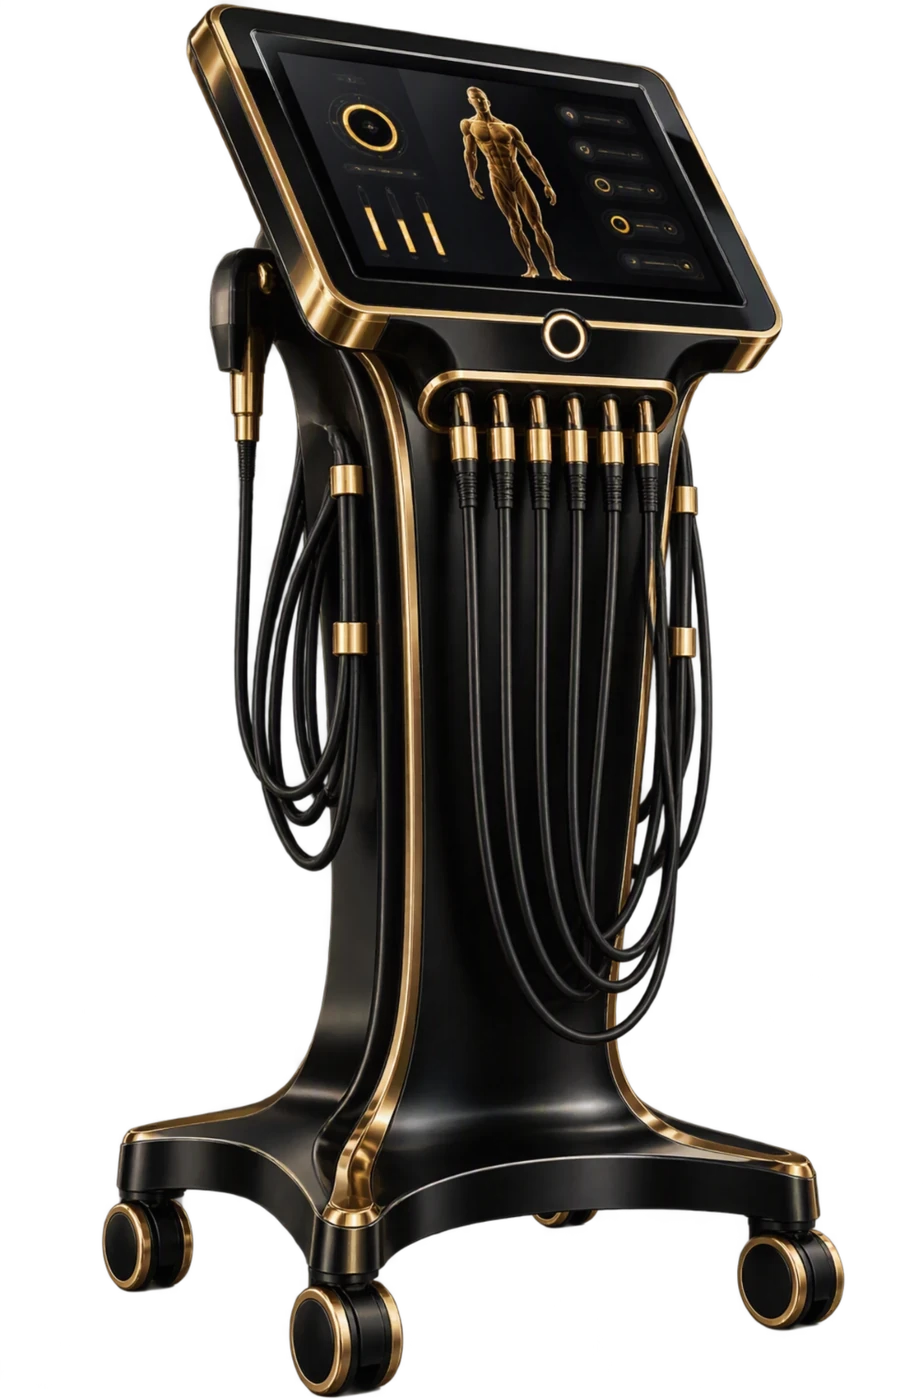
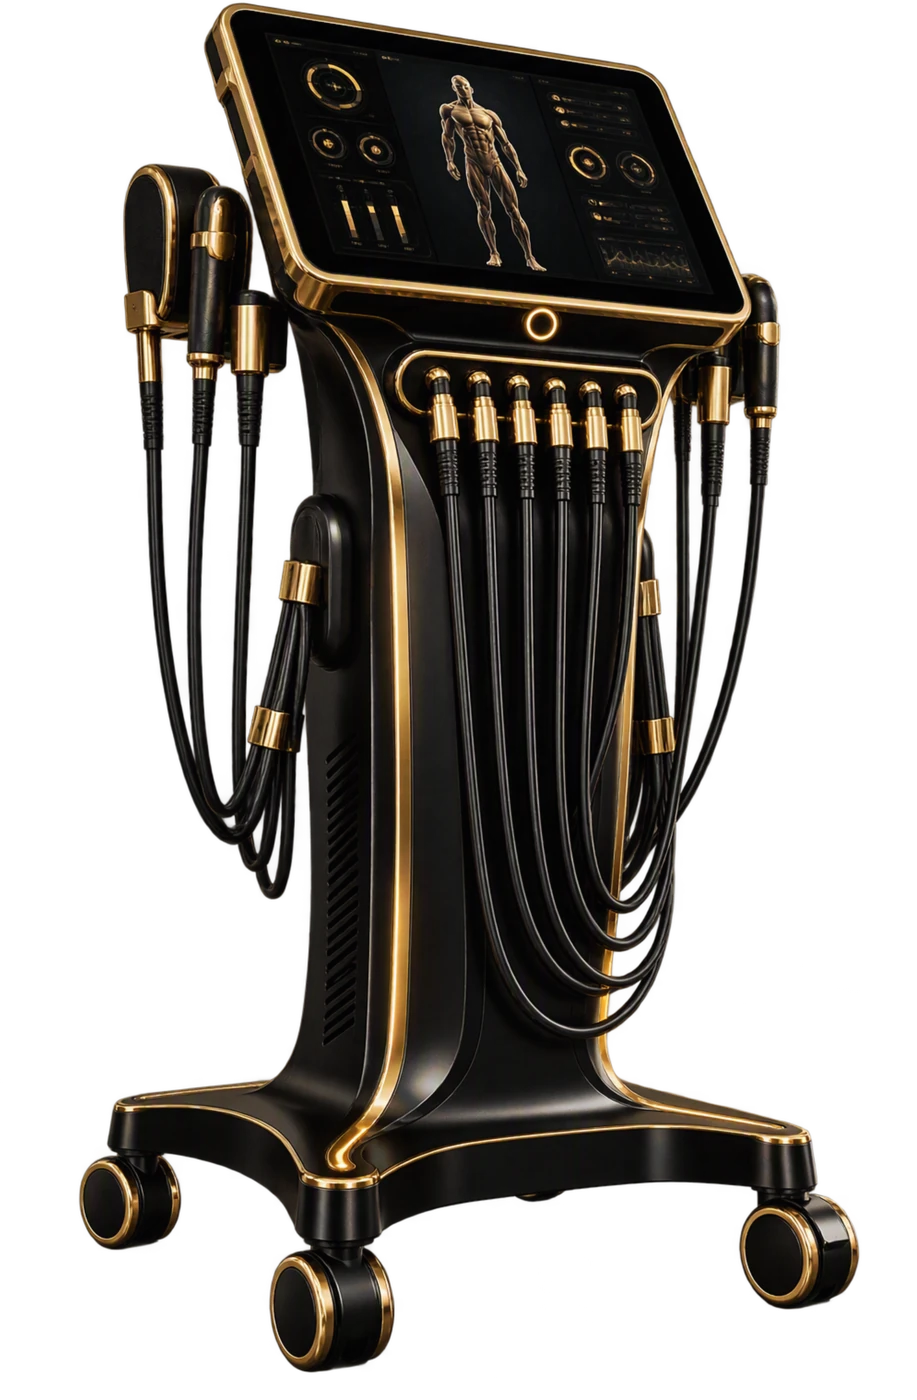
EMS: nowa stacja od Daniela (więcej aplikatorów, bez kombinezonu)
Claude-Session: https://claude.ai/code/session_01CUrTUUWPAyYhZYbknifSxY

diff --git a/js/site.js b/js/site.js
@@ -34,8 +34,8 @@
   var RTX = {
     /* EMS (Daniel 03.10.2026): sama czarno-złota stacja, przezroczyste tło. Kombinezon usunięty (Daniel: „kombinezon wyleci,
        na samą maszynę, to niehigieniczne”); pliki img/rtx/ems-kombinezon-*.webp zostają w repo, nieużywane. */
-    ems: { wolny: true, src: 'img/rtx/ems-urzadzenie-900.webp', srcset: 'img/rtx/ems-urzadzenie-900.webp 593w, img/rtx/ems-urzadzenie-1400.webp 922w',
-           sizes: '(max-width: 900px) 46vh, 53vh', w: 922, h: 1400 },
+    ems: { wolny: true, src: 'img/rtx/ems-urzadzenie-900.webp', srcset: 'img/rtx/ems-urzadzenie-900.webp 589w, img/rtx/ems-urzadzenie-1400.webp 917w',
+           sizes: '(max-width: 900px) 46vh, 53vh', w: 917, h: 1400 },
     /* kriolipoliza (Daniel 03.10.2026): czarno-złote urządzenie z 4 aplikatorami w lodowym błękicie i mgłą, przezroczyste tło;
        poświata za nim chłodna (chlod). Pętla img/rtx/krio-mgla.mp4 zostaje w repo, nieużywana: wolno stojące urządzenie
        na granacie jest czystsze niż kadr studyjny w tle. */
